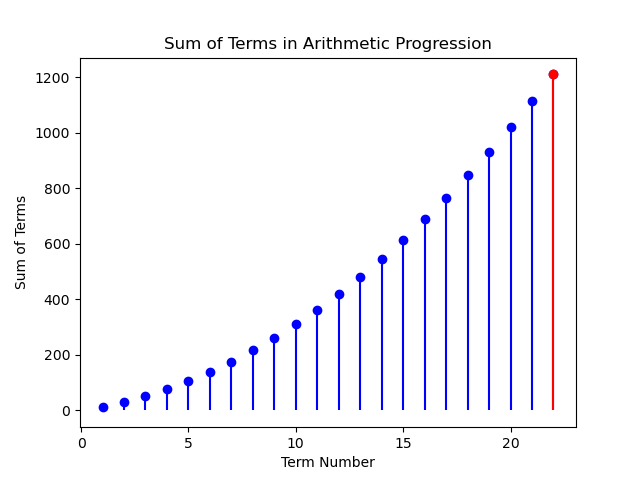
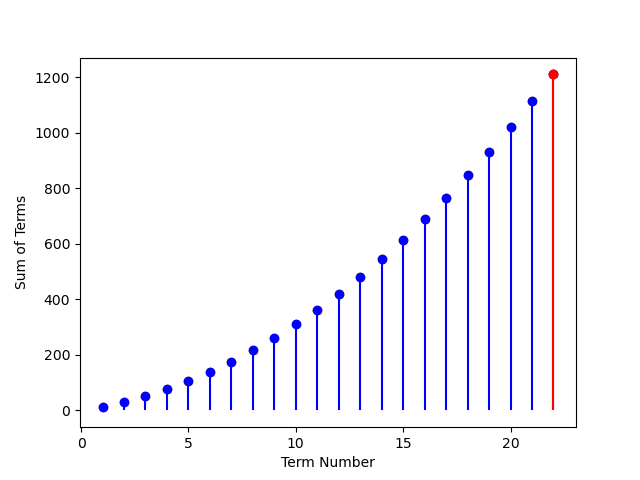
Add files via upload

Changed region(s): [[0.25, 0.0625, 0.7812, 0.125]]

diff --git a/Signals and systems/11.9.5.6/codes/graph.py b/Signals and systems/11.9.5.6/codes/graph.py
@@ -16,5 +16,5 @@ plt.scatter(range(1, len(data) + 1), data, color='orange')
 
 plt.xlabel('Term Number')
 plt.ylabel('Sum of Terms')
-plt.show()
+plt.savefig('plot1.png')
 
